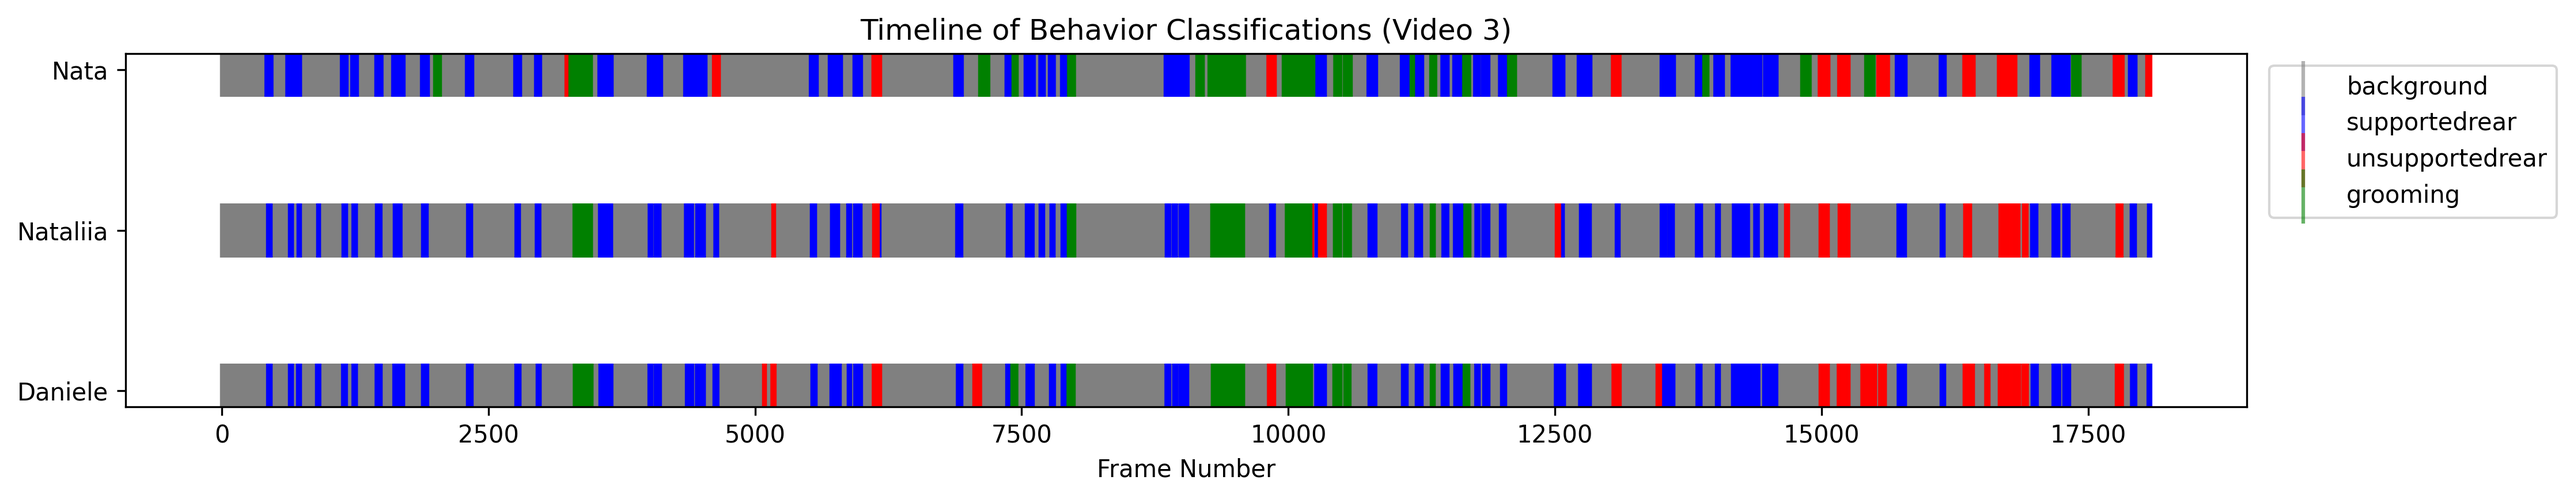
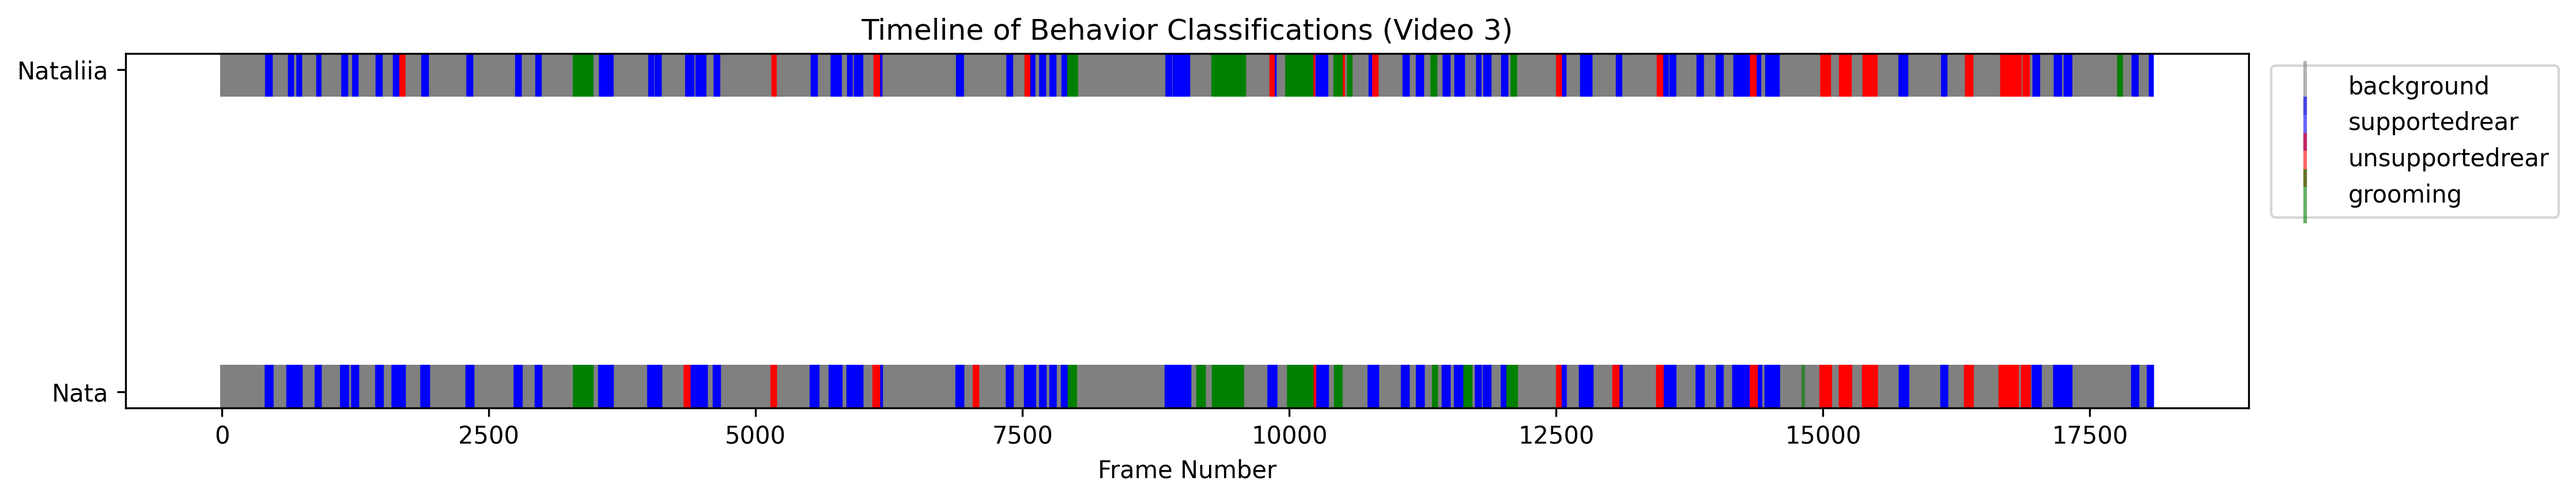
adefhjbk

diff --git a/Agreement_Comparison/agreement_comparison.py b/Agreement_Comparison/agreement_comparison.py
@@ -5,8 +5,67 @@ import seaborn as sns
 import sklearn
 from sklearn.metrics import cohen_kappa_score
 
+behavior = ['background', 'supportedrear', 'unsupportedrear', 'grooming']
 
+videos = { "1" : ["Nata", "Nataliia"],
+           "2" : ["Nata", "Nataliia"],
+           "3" : ["Nata", "Nataliia"],
+           "4" : ["Nata", "Nataliia"],
+           "5" : ["Nata", "Nataliia"],
+           "6" : ["Radu", "Nataliia"],
+           "7" : ["Radu", "Nataliia"],
+           "8" : ["Radu", "Nataliia"],
+           "9" : ["Radu", "Nataliia"],
+           "10" : ["Radu", "Nataliia"],
+           "11" : ["Radu", "Nataliia"],
+           "12" : ["Radu", "Nataliia"],
+           "13" : ["Radu", "Nataliia"],
+           "14" : ["Radu", "Nataliia"],
+           "15" : ["Radu", "Daniele"],
+           "16" : ["Radu", "Nata"],
+           "17" : ["Nata", "Nataliia"],
+           "18" : ["Radu", "Daniele"],
+           "19" : ["Radu", "Daniele"],
+           "20" : ["Daniele", "Nataliia"],
+           "21" : ["Daniele", "Nataliia"]
+        }
 
+videos_dataframes = {}
 
+for handle in videos:
+    videos_dataframes[handle] = []
+    for person in videos[handle]:
+        print(handle+"_"+person)
+        videos_dataframes[handle].append(pd.read_csv("./data_final/"+handle+"_"+person+".csv").iloc[:,1:])
 
+### PRINT COMPARISONS ###
 
+for handle in videos_dataframes:
+    plt.figure(figsize=(15, 3))
+    timeline_data = []
+
+    for df in videos_dataframes[handle]:
+        print(handle)
+        cat_series = pd.Series('background', index=df.index)
+        for cat in behavior[1:]:  # skip background
+            cat_series[df[cat] == 1] = cat
+        timeline_data.append(cat_series)
+
+    colors = {'background': 'gray', 'supportedrear': 'blue',
+            'unsupportedrear': 'red', 'grooming': 'green'}
+    for i, (data, name) in enumerate(zip(timeline_data, videos[handle])):
+        for cat in behavior:
+            mask = data == cat
+            if mask.any():
+                plt.scatter(data[mask].index, [i + 1] * mask.sum(),
+                            label=cat if i == 0 else None,
+                            alpha=0.6, c=colors[cat], marker='|', s=500)
+
+    plt.yticks(list(range(1, len(videos[handle]) + 1)), videos[handle])
+    plt.xlabel('Frame Number')
+    plt.title(f'Timeline of Behavior Classifications (Video {handle})')
+    plt.legend(bbox_to_anchor=(1.005, 1), loc='upper left')
+    #plt.legend(bbox_to_anchor=(1.01, 0.5), loc='center left', borderaxespad=0)
+
+    plt.tight_layout()
+    plt.savefig(f'output/timeline_{handle}_plot.png', bbox_inches='tight', dpi=300)
